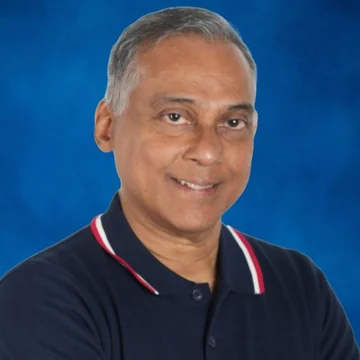
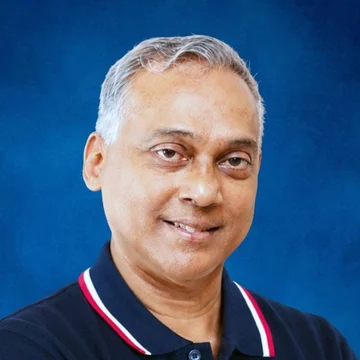
Kinder Maa's new portrait; Dr V. K. Pradeep Kumar's studio photo
Kinder Maa, the website's chat guide, is now the hospital's new animation:
a care guide in Kinder uniform with a headset (still first, animation once
the page has loaded, none for reduced motion).

Dr V. K. Pradeep Kumar's new studio portrait replaces his photo everywhere:
About Us, his profile page, the group and centre leadership cards, and his
team card - also where a photo was already set on his page.

Claude-Session: https://claude.ai/code/session_01EkVbJB9b3MsC7CiRPssJhW

diff --git a/components/KinderChat.js b/components/KinderChat.js
@@ -211,18 +211,17 @@ function buildReply(text, content) {
   );
 }
 
-// Kinder Maa — the assistant's portrait: a Kinder care guide with a headset
-// and phone, a child at her side, in the brand's speech bubble. Used on the
-// launcher and in the chat header, shown whole rather than cropped to a circle
-// so the bubble keeps its shape. She is a website guide, not a clinician, so
-// she carries no "Dr." title.
+// Kinder Maa — the assistant's portrait: a Kinder care guide in the hospital's
+// uniform with a headset (the hospital's own animation, 21 Nov 2026). Used on
+// the launcher and in the chat header, shown whole rather than cropped to a
+// circle. She is a website guide, not a clinician, so she carries no "Dr."
+// title.
 //
-// She waves and smiles (an animated WebP made from the hospital's own clip).
 // The still portrait shows first; the animation is fetched once the page has
 // finished loading, so it never slows the page down, and it is skipped
 // entirely for visitors who ask their device for less motion.
-const MAA_STILL = '/kinder-maa.webp';
-const MAA_ANIMATED = '/kinder-maa-animated.webp';
+const MAA_STILL = '/kinder-maa-guide.webp';
+const MAA_ANIMATED = '/kinder-maa-guide-animated.webp';
 
 function useAnimatedMaa() {
   const [src, setSrc] = useState(MAA_STILL);
